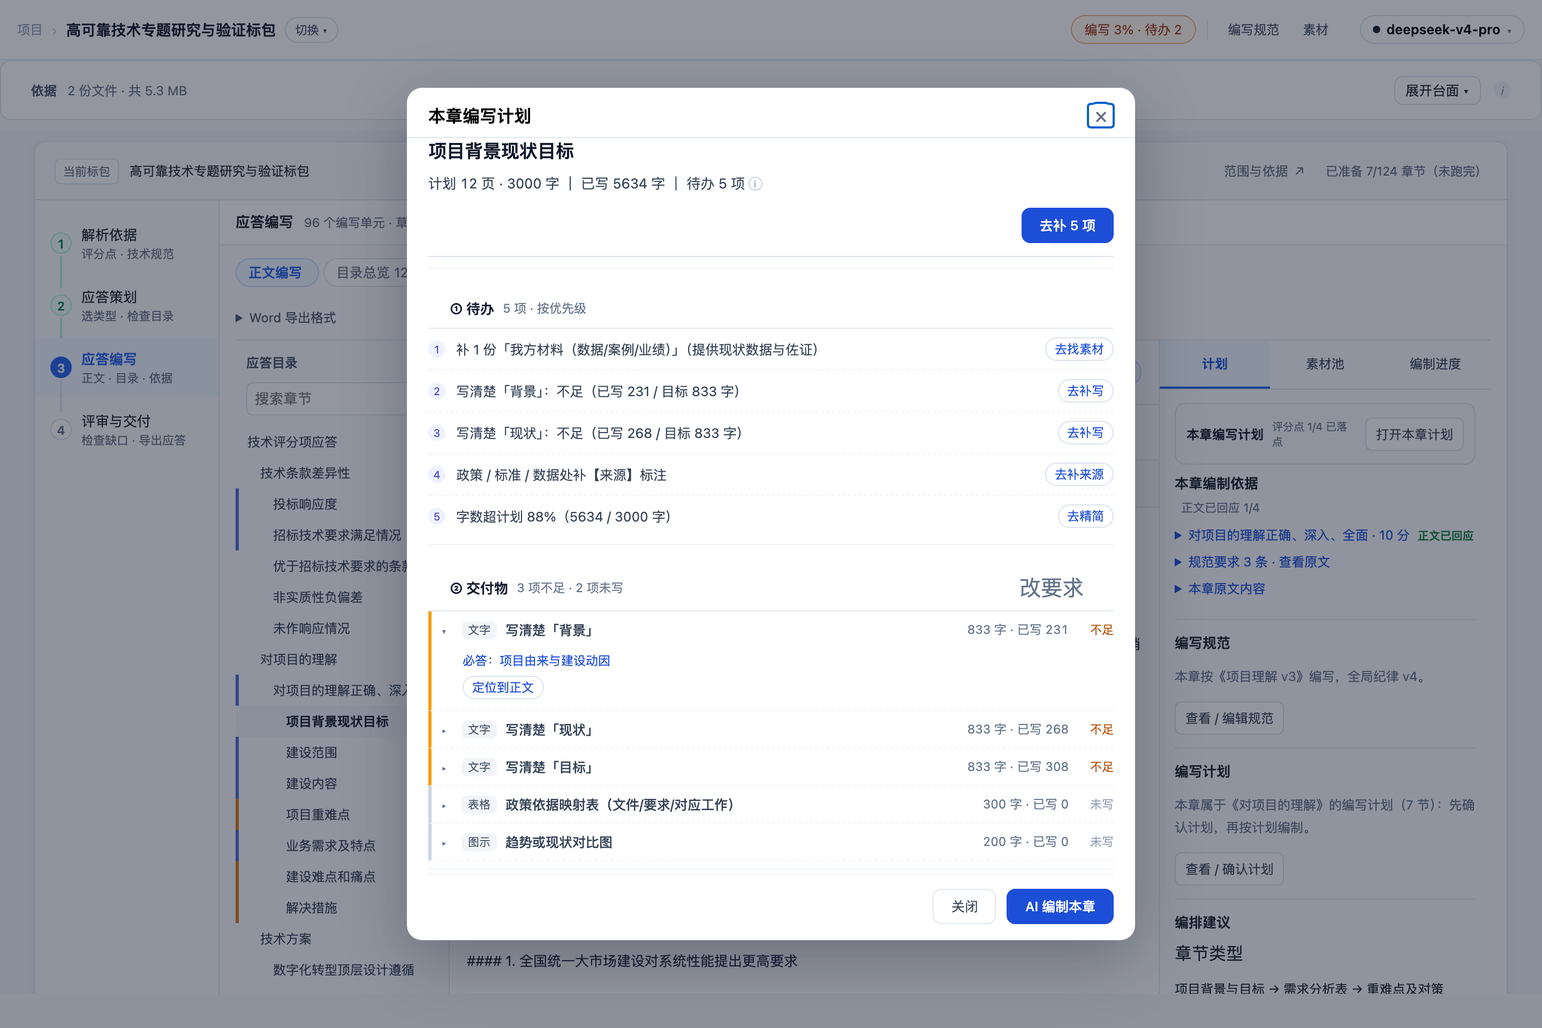
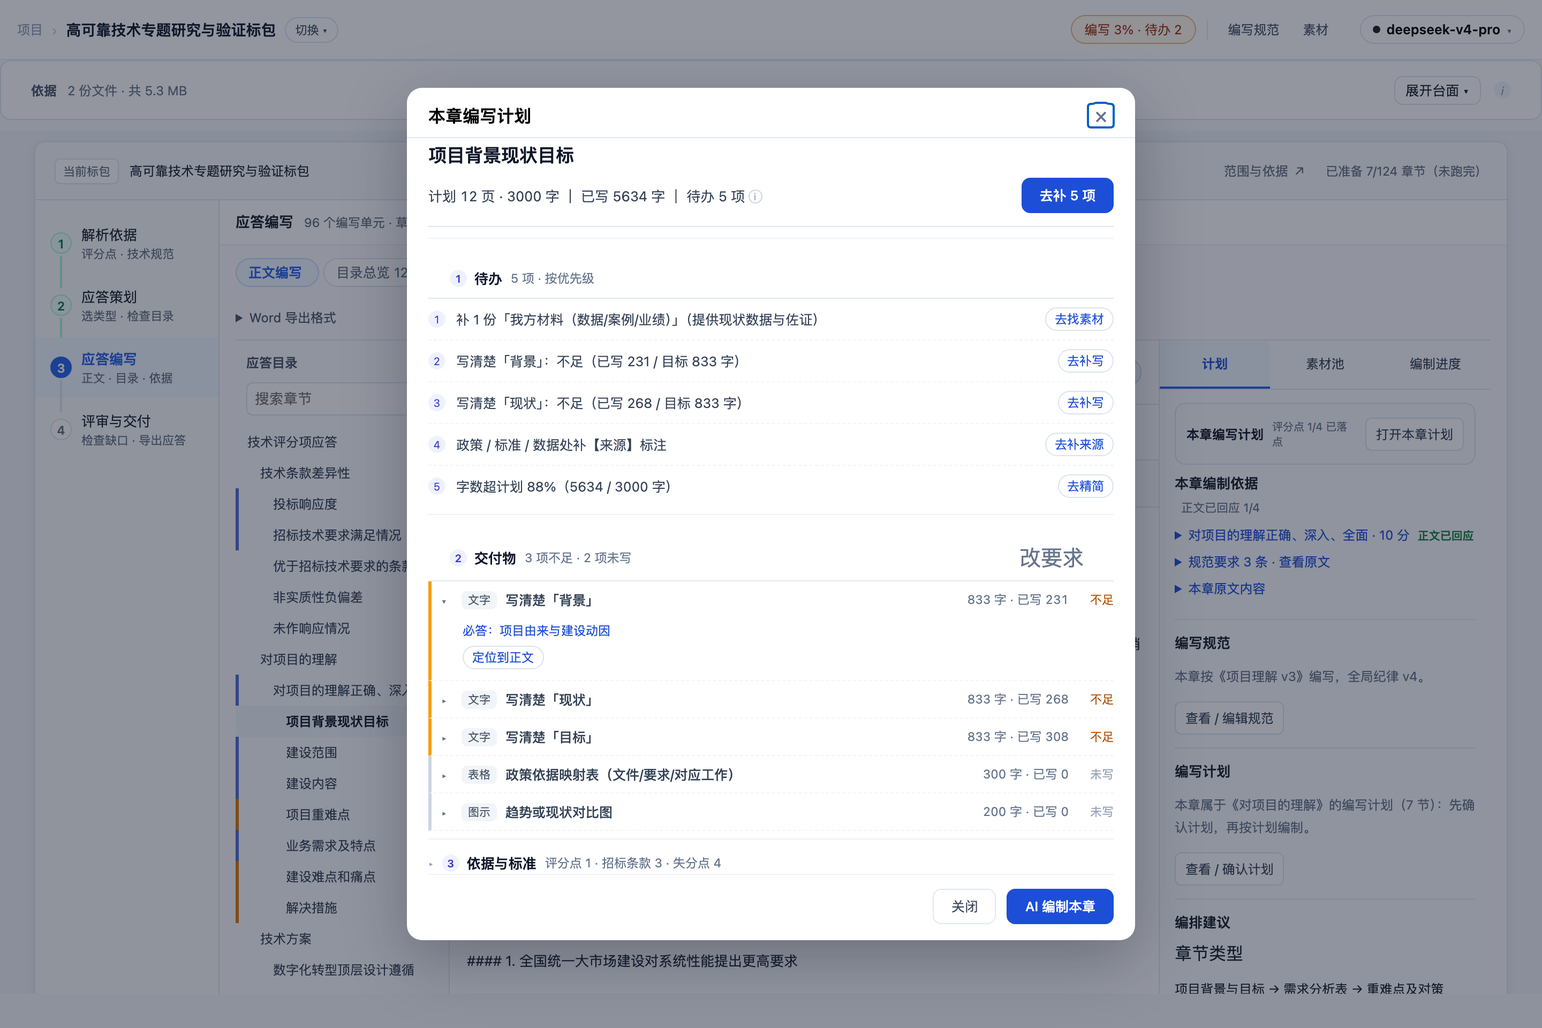
fix(计划弹窗): 序号样式统一 + 主按钮与数字行对齐（去掉多余留白）
用户指出两处：
1. **四个序号样式不一致** —— 区块标题用 Unicode 圈码（①②③④⑤，字体渲染成粗圈/异形），
   待办用 CSS 圆点（细圈），两套视觉并排 → 换成同一套：区块标题也用 `.cs-cp-idx` 徽标
   （16×16 圆点 + 数字），与待办 `.cs-cp-no` 同款同尺寸
2. **蓝按钮上方留白太多** —— 原来"数字行"和"主操作"各占一行
   → 改为同一行：数字行 flex:1 + 按钮右对齐，头部 padding 4px→0

## 自检同步加规则（防止回归）
- L 序号样式统一：区块徽标与待办序号尺寸必须一致
- M 顶部主按钮与数字行同一行：两者垂直中心差 ≤ 14px

## 现状
bash scripts/check.sh → 15/15 界面规则通过（v292）

diff --git a/frontend/assets/mode-outline.js b/frontend/assets/mode-outline.js
@@ -2,9 +2,9 @@
    抽成模块的目的：两段内联脚本有 90 个同名顶层标识符 + 18 个重复 DOM id，
    同页拼接必然互相覆盖；各自成为一个模块即各自一个作用域。
    本文件在抽取时**未改任何逻辑**。 */
-import {mountChapterStudio, exportDocument} from './chapter-studio.mjs?v=20261016-v291';
-import { api } from './api.js?v=20261016-v291';
-import { specContentHtml } from './spec-content.mjs?v=20261016-v291';
+import {mountChapterStudio, exportDocument} from './chapter-studio.mjs?v=20261016-v292';
+import { api } from './api.js?v=20261016-v292';
+import { specContentHtml } from './spec-content.mjs?v=20261016-v292';
 // 顶栏（项目名旁边那行「第 N 轮 · ...」）由共享壳 workspace.js 渲染。这里要把它
 // 改成**页面自己的真实状态**：checkpoint 的 stage 在准备中/编写准备完成后都停在
 // outline_review，只看它的话顶栏永远显示"待确认目录"（实测就是这个问题）。
@@ -12,7 +12,7 @@ import { workspace, renderWorkspaceChrome,
          REQUIREMENT_ROLES, SELECTABLE_REQUIREMENT_ROLES, ROLE_LABEL_SHARED, ROLE_HINT_SHARED,
          roleMismatchWarning, inferRoleFromFilename,
          uiAlert, uiConfirm,
-       } from './workspace.js?v=20261016-v291';
+       } from './workspace.js?v=20261016-v292';
 import { resolvePackageScope, buildOutlineTree, isOrphanedRun, activeStages, instructionDirty, newOutlineId, outlineSubtreeRange,
          moveOutlineNode, indentOutlineNode, outdentOutlineNode,
          moveManyOutlineNodes, indentManyOutlineNodes, outdentManyOutlineNodes,
@@ -31,7 +31,7 @@ import { resolvePackageScope, buildOutlineTree, isOrphanedRun, activeStages, ins
          // 章节状态投影：素材库 / 方案编辑 / 覆盖矩阵共用同一份判定（不再各算各的）
          chapterStage, chapterBadges, filterChapters, chapterFilterCounts,
          CHAPTER_STAGE_LABELS, evidenceByChapter, expandVisibleWithAncestors
-       } from './workspace-model.mjs?v=20261016-v291';
+       } from './workspace-model.mjs?v=20261016-v292';
 
 const params = new URLSearchParams(location.search);
 // projectId **只取数字部分**：链接被误写成 `?projectId=19**(Cmd+Shift+R)`（连带说明文字）
@@ -180,7 +180,7 @@ document.head.insertAdjacentHTML('beforeend', `<style>
 // 左栏章节树：行标记与「方案编辑」共用一份（2026-10-13 左栏归一）。
 // 此前两侧各拼一套（.ot-row / .doc-outline-item），数据投影虽已共用，
 // 但标记重复维护会漂移（workspace-model.mjs 注释里记着 "#undefined" 那次）。
-import { chapterNode, chapterBadgesHtml as sharedBadgesHtml } from './chapter-tree.mjs?v=20261016-v291';
+import { chapterNode, chapterBadgesHtml as sharedBadgesHtml } from './chapter-tree.mjs?v=20261016-v292';
 const blocksEmpty = document.getElementById('blocks-empty');
 const sidebarToc  = document.getElementById('sidebar-toc');
 const ringFill    = document.getElementById('ring-fill');

diff --git a/frontend/workbench.html b/frontend/workbench.html
@@ -4,7 +4,7 @@
     <meta charset="UTF-8" />
     <meta name="viewport" content="width=device-width, initial-scale=1.0" />
     <title>智能应标 · 材料撰写</title>
-    <link rel="stylesheet" href="./assets/styles.css?v=20261016-v291" />
+    <link rel="stylesheet" href="./assets/styles.css?v=20261016-v292" />
     <style>
       /* Outline pane */
       .workspace-shell .outline-pane {
@@ -2055,7 +2055,7 @@
     </style>
     <!-- Markdown 渲染（用于预览模式） -->
     <script src="https://cdn.jsdelivr.net/npm/marked@12.0.0/marked.min.js"></script>
-  <link rel="stylesheet" href="./assets/workspace.css?v=20261016-v291" />
+  <link rel="stylesheet" href="./assets/workspace.css?v=20261016-v292" />
   </head>
   <body>
   <script>
@@ -2500,18 +2500,18 @@
       </main>
     </div>
 
-    <script type="module" src="./assets/workbench.js?v=20261016-v291"></script>
+    <script type="module" src="./assets/workbench.js?v=20261016-v292"></script>
     <script type="module">
-      import { GenerateSession } from './assets/generate-session.js?v=20261016-v291';
-      import { initContextPanel } from './assets/context-panel.js?v=20261016-v291';
-      import { api } from './assets/api.js?v=20261016-v291';
-      import { request as workspaceRequest, refreshWorkspace, workspace, confirmChapterAction } from './assets/workspace.js?v=20261016-v291';
+      import { GenerateSession } from './assets/generate-session.js?v=20261016-v292';
+      import { initContextPanel } from './assets/context-panel.js?v=20261016-v292';
+      import { api } from './assets/api.js?v=20261016-v292';
+      import { request as workspaceRequest, refreshWorkspace, workspace, confirmChapterAction } from './assets/workspace.js?v=20261016-v292';
       // 提炼字段枚举 + 素材依据的**渲染片段**与 project-init 共用（见 workspace-model.mjs 注释）：
       // 性质徽标与出处行的实现在那边只有一份，两个页面不再各写一套（曾经因此漂移出
       // "每行显示 #undefined"）。
       import { CONSTRAINT_LEVELS, constraintLevelLabel,
                evidenceKindBadgeHtml, evidenceSourceLineHtml, evidenceSnippet,
-               chapterStage, CHAPTER_STAGE_LABELS } from './assets/workspace-model.mjs?v=20261016-v291';
+               chapterStage, CHAPTER_STAGE_LABELS } from './assets/workspace-model.mjs?v=20261016-v292';
       initContextPanel();
 
       // 素材抽屉：默认收起（写作时右栏就是正文本身），点工具栏「素材 n ▸」打开；
@@ -5575,6 +5575,6 @@
       })();
     })();
     </script>
-  <script type="module" src="./assets/workspace.js?v=20261016-v291"></script>
+  <script type="module" src="./assets/workspace.js?v=20261016-v292"></script>
   </body>
 </html>

diff --git a/frontend/three-mode.html b/frontend/three-mode.html
@@ -4,9 +4,9 @@
     <meta charset="UTF-8" />
     <meta name="viewport" content="width=device-width, initial-scale=1.0" />
     <title>AiBidding · Workbench Init State</title>
-    <link rel="stylesheet" href="./assets/response-outline.css?v=20261016-v291" />
-    <link rel="stylesheet" href="./assets/chapter-studio.css?v=20261016-v291" />
-    <link rel="stylesheet" href="./assets/styles.css?v=20261016-v291" />
+    <link rel="stylesheet" href="./assets/response-outline.css?v=20261016-v292" />
+    <link rel="stylesheet" href="./assets/chapter-studio.css?v=20261016-v292" />
+    <link rel="stylesheet" href="./assets/styles.css?v=20261016-v292" />
     <style>
 /* ── 三栏布局 ── */
 .init-layout {
@@ -3350,8 +3350,8 @@ body[data-view="matching"] .match-detail { display: block; }
   body[data-view="editor"] .ws-editor-layout { flex: 1 1 auto; min-height: 0; }
 
 </style>
-  <link rel="stylesheet" href="./assets/workspace.css?v=20261016-v291" />
-  <link rel="stylesheet" href="./assets/ui.css?v=20261016-v291" />   <!-- 组件最小集：最后加载以统一历史类名 -->
+  <link rel="stylesheet" href="./assets/workspace.css?v=20261016-v292" />
+  <link rel="stylesheet" href="./assets/ui.css?v=20261016-v292" />   <!-- 组件最小集：最后加载以统一历史类名 -->
   </head>
   <body data-view="outline" data-modes="outline,matching,editor">
     <div class="workspace-shell">
@@ -4062,16 +4062,16 @@ body[data-view="matching"] .match-detail { display: block; }
         if (skel) skel.hidden = true;
       }, 6000);
     </script>
-    <script type="module" src="./assets/workbench.js?v=20261016-v291"></script>
-    <script type="module" src="./assets/mode-dispatch.js?v=20261016-v291"></script>
+    <script type="module" src="./assets/workbench.js?v=20261016-v292"></script>
+    <script type="module" src="./assets/mode-dispatch.js?v=20261016-v292"></script>
     <!-- 动态 import：失败可捕获并上报（静态 import 失败无法捕获，会让整页静默不执行） -->
     <script type="module">
-      for (const mod of ['./assets/mode-outline.js?v=20261016-v291',
-                        './assets/mode-editor.js?v=20261016-v291']) {
+      for (const mod of ['./assets/mode-outline.js?v=20261016-v292',
+                        './assets/mode-editor.js?v=20261016-v292']) {
         try { await import(mod); }
         catch (err) { window.__bootErrors.push(`模块加载失败 ${mod}：${err?.message || err}`); }
       }
     </script>
-  <script type="module" src="./assets/workspace.js?v=20261016-v291"></script>
+  <script type="module" src="./assets/workspace.js?v=20261016-v292"></script>
   </body>
 </html>

diff --git a/frontend/project-init.html b/frontend/project-init.html
@@ -4,7 +4,7 @@
     <meta charset="UTF-8" />
     <meta name="viewport" content="width=device-width, initial-scale=1.0" />
     <title>AiBidding · Workbench Init State</title>
-    <link rel="stylesheet" href="./assets/styles.css?v=20261016-v291" />
+    <link rel="stylesheet" href="./assets/styles.css?v=20261016-v292" />
     <style>
 /* ── 三栏布局 ── */
 .init-layout {
@@ -889,7 +889,7 @@ body[data-view="matching"] .match-detail { display: block; }
   background: #eff6ff;
 }
     </style>
-  <link rel="stylesheet" href="./assets/workspace.css?v=20261016-v291" />
+  <link rel="stylesheet" href="./assets/workspace.css?v=20261016-v292" />
   </head>
   <body data-view="outline">
   <script>
@@ -1097,14 +1097,14 @@ body[data-view="matching"] .match-detail { display: block; }
     </div>
 
     <script type="module">
-import { api } from './assets/api.js?v=20261016-v291';
+import { api } from './assets/api.js?v=20261016-v292';
 // 顶栏（项目名旁边那行「第 N 轮 · ...」）由共享壳 workspace.js 渲染。这里要把它
 // 改成**页面自己的真实状态**：checkpoint 的 stage 在提炼中/提炼完成后都停在
 // outline_review，只看它的话顶栏永远显示"待确认目录"（实测就是这个问题）。
 import { workspace, renderWorkspaceChrome,
          REQUIREMENT_ROLES, ROLE_LABEL_SHARED, ROLE_HINT_SHARED,
          roleMismatchWarning, inferRoleFromFilename,
-       } from './assets/workspace.js?v=20261016-v291';
+       } from './assets/workspace.js?v=20261016-v292';
 import { buildOutlineTree, isOrphanedRun, activeStages, instructionDirty, newOutlineId, outlineSubtreeRange,
          moveOutlineNode, indentOutlineNode, outdentOutlineNode,
          removeOutlineSubtree, insertSiblingAfter, insertChildOf,
@@ -1118,7 +1118,7 @@ import { buildOutlineTree, isOrphanedRun, activeStages, instructionDirty, newOut
          // 章节状态投影：素材库 / 方案编辑 / 覆盖矩阵共用同一份判定（不再各算各的）
          chapterStage, chapterBadges, filterChapters, chapterFilterCounts,
          CHAPTER_STAGE_LABELS, evidenceByChapter, expandVisibleWithAncestors
-       } from './assets/workspace-model.mjs?v=20261016-v291';
+       } from './assets/workspace-model.mjs?v=20261016-v292';
 
 const params = new URLSearchParams(location.search);
 const projectId = params.get('projectId');
@@ -4957,6 +4957,6 @@ bindMatchDetailActions();
   });
 })();
     </script>
-  <script type="module" src="./assets/workspace.js?v=20261016-v291"></script>
+  <script type="module" src="./assets/workspace.js?v=20261016-v292"></script>
   </body>
 </html>

diff --git a/frontend/assets/mode-editor.js b/frontend/assets/mode-editor.js
@@ -2,13 +2,13 @@
    抽成模块的目的：两段内联脚本有 90 个同名顶层标识符 + 18 个重复 DOM id，
    同页拼接必然互相覆盖；各自成为一个模块即各自一个作用域。
    本文件在抽取时**未改任何逻辑**。 */
-import { GenerateSession } from './generate-session.js?v=20261016-v291';
+import { GenerateSession } from './generate-session.js?v=20261016-v292';
 // 左栏章节树：与「要求与大纲 / 素材库」共用一份行标记（2026-10-13 左栏归一）
-import { chapterNode, renderChapterTree } from './chapter-tree.mjs?v=20261016-v291';
-import { initContextPanel } from './context-panel.js?v=20261016-v291';
-import { api } from './api.js?v=20261016-v291';
+import { chapterNode, renderChapterTree } from './chapter-tree.mjs?v=20261016-v292';
+import { initContextPanel } from './context-panel.js?v=20261016-v292';
+import { api } from './api.js?v=20261016-v292';
 import { request as workspaceRequest, refreshWorkspace, workspace, confirmChapterAction ,
-         uiAlert, uiConfirm} from './workspace.js?v=20261016-v291';
+         uiAlert, uiConfirm} from './workspace.js?v=20261016-v292';
 
 // ── 本章要求 bar 的应答条目缓存 ──────────────────────────────
 // 必须**声明在模块最前面**：它原本声明在文件中部，而模块之间存在循环依赖
@@ -21,7 +21,7 @@ let responseItemsByBlock = {};
 // "每行显示 #undefined"）。
 import { CONSTRAINT_LEVELS, constraintLevelLabel,
          evidenceKindBadgeHtml, evidenceSourceLineHtml, evidenceSnippet,
-         chapterStage, CHAPTER_STAGE_LABELS } from './workspace-model.mjs?v=20261016-v291';
+         chapterStage, CHAPTER_STAGE_LABELS } from './workspace-model.mjs?v=20261016-v292';
 initContextPanel();
 
 // 素材抽屉：默认收起（写作时右栏就是正文本身），点工具栏「素材 n ▸」打开；

diff --git a/frontend/project-intake.html b/frontend/project-intake.html
@@ -3,7 +3,7 @@
 <head>
   <meta charset="utf-8"><meta name="viewport" content="width=device-width,initial-scale=1">
   <title>项目准备 · 智能应标</title>
-  <link rel="stylesheet" href="/assets/styles.css?v=20261016-v291">
+  <link rel="stylesheet" href="/assets/styles.css?v=20261016-v292">
   <style>
     body{margin:0;background:#f7f8fa;color:#17202a;font-family:Inter,"PingFang SC",sans-serif}
     .shell{max-width:1120px;margin:auto;padding:28px}.top{display:flex;justify-content:space-between;align-items:center;margin-bottom:22px}
@@ -32,4 +32,4 @@
 </main>
 <dialog id="package-editor"><form id="package-form"><h2>编辑投标对象</h2><p class="hint">仅在识别有误时修改；名称可留空。</p><input id="edit-id" type="hidden"><label>对象类型<select id="edit-kind"><option value="package">标包</option><option value="section">标段</option><option value="target">独立标的</option></select></label><label>所属标的编号<input id="edit-target"></label><label>标包 / 标段编号<input id="edit-code"></label><label>完整名称<input id="edit-name" maxlength="300"></label><div class="actions"><button type="button" id="cancel-edit">取消</button><button class="primary" type="submit">保存</button></div></form></dialog>
 <dialog id="merge-dialog"><form id="merge-form"><h2>合并重复候选</h2><p class="hint">将当前候选的证据合并到以下保留项。已有运行成果的候选不能合并，保留项需要重新核验。</p><input id="merge-source" type="hidden"><label>保留的投标对象<select id="merge-destination"></select></label><div class="actions"><button type="button" id="cancel-merge">取消</button><button type="submit" class="primary">确认合并</button></div></form></dialog>
-<script type="module" src="/assets/intake.js?v=20261016-v291"></script></body></html>
+<script type="module" src="/assets/intake.js?v=20261016-v292"></script></body></html>

diff --git a/frontend/review.html b/frontend/review.html
@@ -4,16 +4,16 @@
     <meta charset="UTF-8" />
     <meta name="viewport" content="width=device-width, initial-scale=1.0" />
     <title>AiBidding · 质量检查</title>
-    <link rel="stylesheet" href="./assets/styles.css?v=20261016-v291" />
-    <link rel="stylesheet" href="./assets/review.css?v=20261016-v291" />
-  <link rel="stylesheet" href="./assets/workspace.css?v=20261016-v291" />
+    <link rel="stylesheet" href="./assets/styles.css?v=20261016-v292" />
+    <link rel="stylesheet" href="./assets/review.css?v=20261016-v292" />
+  <link rel="stylesheet" href="./assets/workspace.css?v=20261016-v292" />
   <style>
     /* 返回作业面板：与项目名同级的次级入口 */
     .back-to-panel { margin-left:10px; font-size:12.5px; color:var(--muted); text-decoration:none;
       border:1px solid var(--line); border-radius:8px; padding:3px 10px; }
     .back-to-panel:hover { color:var(--text); background:var(--bg-2); }
   </style>
-  <link rel="stylesheet" href="./assets/ui.css?v=20261016-v291" />   <!-- 组件最小集：最后加载以统一历史类名 -->
+  <link rel="stylesheet" href="./assets/ui.css?v=20261016-v292" />   <!-- 组件最小集：最后加载以统一历史类名 -->
   </head>
   <body>
     <div class="workspace-shell">
@@ -96,7 +96,7 @@
       </main>
     </div>
 
-    <script type="module" src="./assets/review.js?v=20261016-v291"></script>
-  <script type="module" src="./assets/workspace.js?v=20261016-v291"></script>
+    <script type="module" src="./assets/review.js?v=20261016-v292"></script>
+  <script type="module" src="./assets/workspace.js?v=20261016-v292"></script>
   </body>
 </html>

diff --git a/frontend/assets/workbench.js b/frontend/assets/workbench.js
@@ -1,12 +1,12 @@
-import {workspace, subscribe, refreshWorkspace, workspaceUrl, confirmChapterAction, openDialog, showHistory, statusLabels, esc} from './workspace.js?v=20261016-v291';
+import {workspace, subscribe, refreshWorkspace, workspaceUrl, confirmChapterAction, openDialog, showHistory, statusLabels, esc} from './workspace.js?v=20261016-v292';
 // 章节状态/依据徽标与「素材库」共用一份投影（同一棵目录树，四个环节都一样）
-import {chapterBadges, parseEvidence} from './workspace-model.mjs?v=20261016-v291';
+import {chapterBadges, parseEvidence} from './workspace-model.mjs?v=20261016-v292';
 // 左栏章节树：**三个模式共用一份**行标记（2026-10-13 归一）。
 // 此前编辑器侧自己拼 `.doc-outline-item`、大纲侧拼 `.ot-row`，是两套实现；
 // 数据投影本就共用（workspace-model），这里把标记也收敛掉。
 // 行上仍保留 `doc-outline-item` 类与 data-block-id 属性，兼容 mode-editor.js 里
 // 既有的 10 处选择器（改动面最小化）。
-import {chapterNode, renderChapterTree, chapterBadgesHtml} from './chapter-tree.mjs?v=20261016-v291';
+import {chapterNode, renderChapterTree, chapterBadgesHtml} from './chapter-tree.mjs?v=20261016-v292';
 // 左栏树的**唯一宿主**：由 mode-dispatch 在模式切换时把 #blocks-list 搬到当前模式的
 // 左栏位置。归一前这里是 `.doc-outline`，与大纲侧 `#blocks-list` 各渲一棵（实测
 // .ot-node 有 120 个 = 两棵各 60）。动态解析而不是加载时捕获，就是为了让宿主可搬。

diff --git a/frontend/projects.html b/frontend/projects.html
@@ -4,7 +4,7 @@
     <meta charset="UTF-8" />
     <meta name="viewport" content="width=device-width, initial-scale=1.0" />
     <title>智能应标 · 项目列表</title>
-    <link rel="stylesheet" href="./assets/styles.css?v=20261016-v291" />
+    <link rel="stylesheet" href="./assets/styles.css?v=20261016-v292" />
     <style>
       /* ── 页头 ── */
       .app-header {
@@ -613,7 +613,7 @@
       .btn-api-save:disabled { opacity: 0.45; cursor: default; }
       .btn-api-save:not(:disabled):hover { opacity: 0.88; }
     </style>
-    <link rel="stylesheet" href="./assets/ui.css?v=20261016-v291" />   <!-- 组件最小集：最后加载以统一历史类名 -->
+    <link rel="stylesheet" href="./assets/ui.css?v=20261016-v292" />   <!-- 组件最小集：最后加载以统一历史类名 -->
 </head>
   <body>
     <!-- 页头 -->
@@ -745,7 +745,7 @@
     </div>
 
     <script type="module">
-      import { api } from './assets/api.js?v=20261016-v291';
+      import { api } from './assets/api.js?v=20261016-v292';
 
       // ── 状态 ──
       const reqFiles = []; // {file, name, size, ext}

diff --git a/frontend/diff-review.html b/frontend/diff-review.html
@@ -4,8 +4,8 @@
     <meta charset="UTF-8" />
     <meta name="viewport" content="width=device-width, initial-scale=1.0" />
     <title>AiBidding · Diff Review</title>
-    <link rel="stylesheet" href="./assets/styles.css?v=20261016-v291" />
-  <link rel="stylesheet" href="./assets/workspace.css?v=20261016-v291" />
+    <link rel="stylesheet" href="./assets/styles.css?v=20261016-v292" />
+  <link rel="stylesheet" href="./assets/workspace.css?v=20261016-v292" />
   </head>
   <body>
     <div class="workspace-shell">
@@ -98,7 +98,7 @@
     </div>
 
     <script type="module">
-      import { api } from './assets/api.js?v=20261016-v291';
+      import { api } from './assets/api.js?v=20261016-v292';
 
       const params    = new URLSearchParams(location.search);
       const projectId = params.get('projectId');
@@ -326,6 +326,6 @@
 
       loadRevisions();
     </script>
-  <script type="module" src="./assets/workspace.js?v=20261016-v291"></script>
+  <script type="module" src="./assets/workspace.js?v=20261016-v292"></script>
   </body>
 </html>

diff --git a/frontend/assets/workspace.js b/frontend/assets/workspace.js
@@ -1,11 +1,11 @@
-import {projectChapters, summarize, statusLabels, stageLabels, activeStages, runtimeStages, isOrphanedRun, isExtractDone, diffHtml, escapeHtml as esc} from './workspace-model.mjs?v=20261016-v291';
+import {projectChapters, summarize, statusLabels, stageLabels, activeStages, runtimeStages, isOrphanedRun, isExtractDone, diffHtml, escapeHtml as esc} from './workspace-model.mjs?v=20261016-v292';
 export {statusLabels, esc};
 // 材料角色体系再导出：project-init 的角色下拉与"分类纠错提示"都从这里取
 export {
   REQUIREMENT_ROLES, SELECTABLE_REQUIREMENT_ROLES, SOURCE_ROLES, ALL_MATERIAL_ROLES,
   ROLE_LABEL as ROLE_LABEL_SHARED, ROLE_HINT as ROLE_HINT_SHARED,
   isRequirementRole, inferRoleFromFilename, roleMismatchWarning,
-} from './material-roles.mjs?v=20261016-v291';
+} from './material-roles.mjs?v=20261016-v292';
 export async function request(url, options) {
   const response = await fetch(url, options);
   const data = await response.json().catch(() => ({}));

diff --git a/frontend/assets/chapter-studio.css b/frontend/assets/chapter-studio.css
@@ -436,3 +436,13 @@
 /* 还原度修正：交付物行必须是"上下结构"（标题一行、必答/动作在下方） */
 .cs-cp-del { display: block; }
 .cs-cp-del-head { display: flex; }
+
+/* 序号统一：区块徽标与待办序号同一套视觉 */
+.cs-cp-idx { display: inline-flex; width: 16px; height: 16px; border-radius: 50%; background: #eef2ff; color: #4338ca;
+  font-size: 10px; font-weight: 600; align-items: center; justify-content: center; margin-right: 7px; flex-shrink: 0; }
+.cs-cp-block > header b, .cs-cp-block > summary b { display: inline-flex; align-items: center; }
+/* 顶部：数字行与主操作同一行，去掉多余留白 */
+.cs-cp-toprow { display: flex; align-items: center; gap: 12px; }
+.cs-cp-toprow .cs-cp-facts { flex: 1; min-width: 0; margin: 0; }
+.cs-cp-toprow .cs-cp-primary { flex-shrink: 0; }
+.cs-cp-head { padding: 4px 0 12px; }
